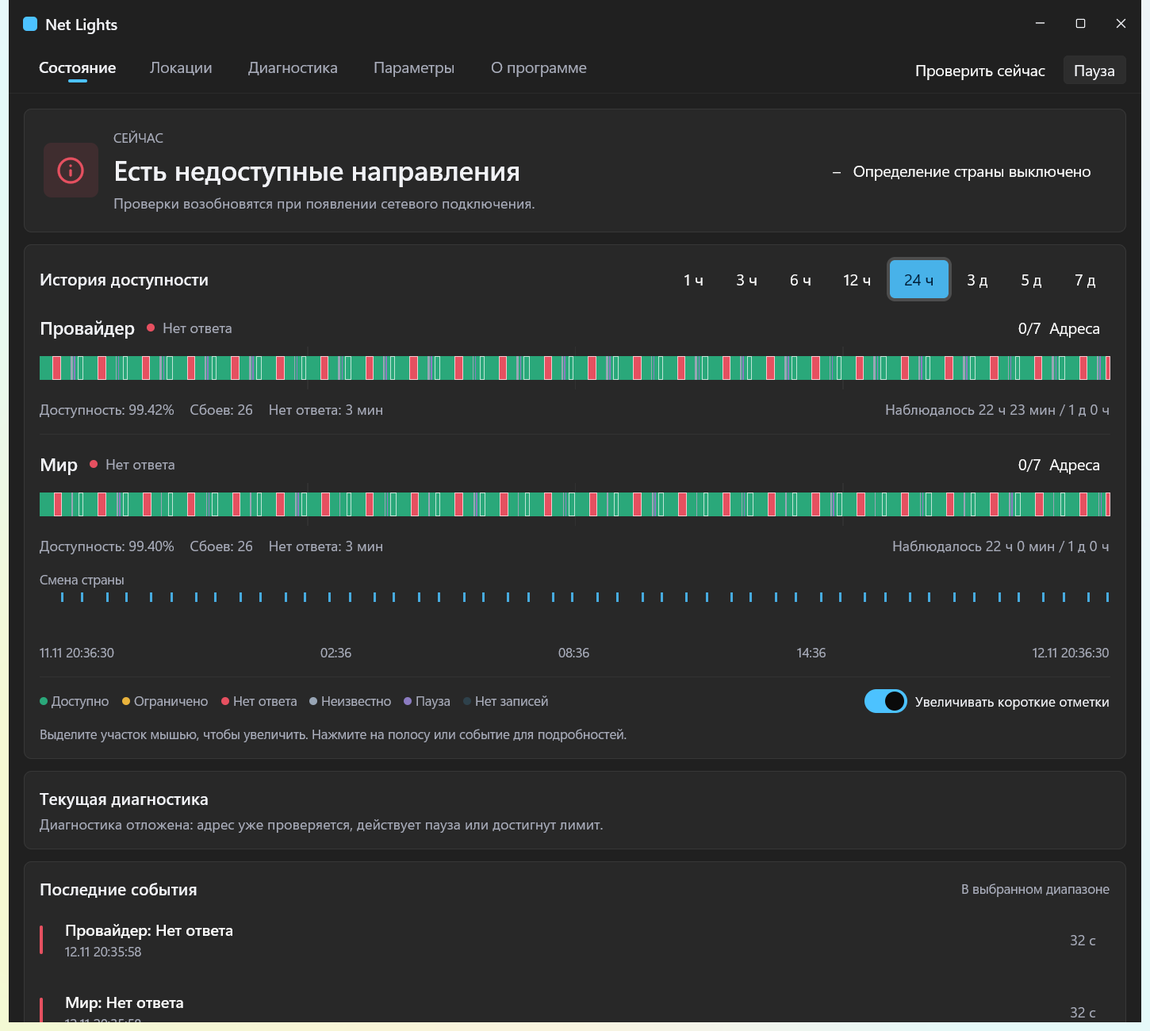
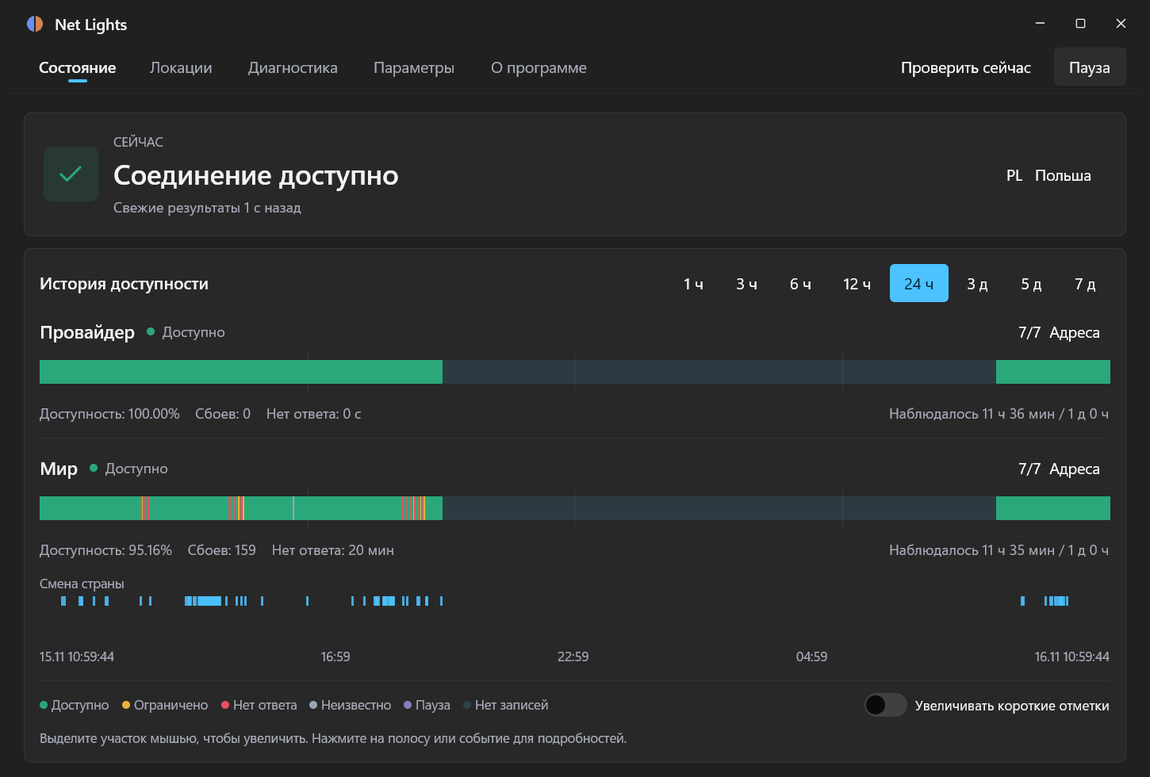
docs: refresh README screenshots and restore tray previews

diff --git a/docs/images/tray-mock.html b/docs/images/tray-mock.html
@@ -1,0 +1,83 @@
+<!DOCTYPE html>
+<html lang="ru">
+<head>
+  <meta charset="utf-8" />
+  <title>Net Lights: превью трея</title>
+  <style>
+    html, body { margin: 0; width: 243px; height: 62px; overflow: hidden; }
+    #shot {
+      width: 243px;
+      height: 62px;
+      position: relative;
+      background: linear-gradient(180deg, #76a2be 0%, #284866 100%);
+    }
+    .bar {
+      position: absolute;
+      left: 0; right: 0; bottom: 0;
+      height: 48px;
+      display: flex;
+      align-items: center;
+      background: #202020;
+      box-shadow: inset 0 1px 0 rgba(255, 255, 255, 0.08);
+      font-family: "Segoe UI Variable Text", "Segoe UI", sans-serif;
+      color: #fff;
+    }
+    .hit {
+      width: 32px;
+      height: 48px;
+      display: flex;
+      align-items: center;
+      justify-content: center;
+      flex: 0 0 32px;
+    }
+    .mi {
+      font-family: "Segoe Fluent Icons", "Segoe MDL2 Assets", sans-serif;
+      font-size: 16px;
+      line-height: 1;
+      color: #ececec;
+    }
+    .clock {
+      margin-left: auto;
+      padding: 0 8px 0 6px;
+      text-align: right;
+      line-height: 1.15;
+      font-size: 12px;
+      font-weight: 400;
+    }
+    .peek {
+      width: 5px;
+      align-self: stretch;
+      border-left: 1px solid rgba(255, 255, 255, 0.14);
+    }
+    .app { width: 16px; height: 16px; display: block; }
+    .country {
+      font-family: Consolas, monospace;
+      font-size: 16px;
+      font-weight: 700;
+      line-height: 1;
+    }
+  </style>
+</head>
+<body>
+  <div id="shot">
+    <div class="bar">
+      <div class="hit"><span class="mi">&#xE70E;</span></div>
+      <div class="hit">
+        <svg class="app" xmlns="http://www.w3.org/2000/svg" viewBox="0 0 16 16" role="img" aria-label="Провайдер и мир доступны">
+          <defs>
+            <clipPath id="left"><rect width="7" height="16" /></clipPath>
+            <clipPath id="right"><rect x="9" width="7" height="16" /></clipPath>
+          </defs>
+          <circle cx="8" cy="8" r="7" fill="#00DC5C" clip-path="url(#left)" />
+          <circle cx="8" cy="8" r="7" fill="#00DC5C" clip-path="url(#right)" />
+        </svg>
+      </div>
+      <div class="hit"><span class="country" aria-label="Финляндия">FI</span></div>
+      <div class="hit"><span class="mi">&#xE839;</span></div>
+      <div class="hit"><span class="mi">&#xE767;</span></div>
+      <div class="clock">15:00<br />23.09.2026</div>
+      <div class="peek"></div>
+    </div>
+  </div>
+</body>
+</html>

diff --git a/README.md b/README.md
@@ -1,117 +1,103 @@
 <p align="center">
-  <img src="docs/images/mark.png" width="96" height="96" alt="Net Lights" />
+  <img src="native/assets/brand.svg" width="112" height="112" alt="Логотип Net Lights" />
 </p>
 
 <h1 align="center">Net Lights</h1>
 
 <p align="center">
-  Мониторинг доступности контрольных адресов в трее Windows 11.<br />
+  <strong>Доступность сети и история страны вашего IP – в трее Windows.</strong><br />
   Круг из двух половин: слева провайдер, справа мир.
 </p>
 
 <p align="center">
-  <a href="https://github.com/AryaPaw/net-lights/releases"><img src="https://img.shields.io/github/v/release/AryaPaw/net-lights?label=release&sort=semver" alt="Release" /></a>
-  <a href="https://github.com/AryaPaw/net-lights/actions/workflows/ci.yml"><img src="https://img.shields.io/github/actions/workflow/status/AryaPaw/net-lights/ci.yml?branch=main" alt="CI" /></a>
-  <img src="https://img.shields.io/badge/Windows-11%20x64-0078D4?logo=windows&logoColor=white" alt="Windows 11 x64" />
-  <img src="https://img.shields.io/badge/Rust-GPUI%20Kit-CE422B?logo=rust&logoColor=white" alt="Rust и GPUI Kit" />
-  <img src="https://img.shields.io/badge/license-GPL--3.0--only-blue" alt="GPL-3.0-only" />
+  <a href="https://github.com/AryaPaw/net-lights/releases"><img src="https://img.shields.io/github/v/release/AryaPaw/net-lights?label=версия&amp;sort=semver" alt="Последняя версия" /></a>
+  <img src="https://img.shields.io/badge/Windows-11%20x64-0078D4" alt="Windows 11 x64" />
+  <a href="https://github.com/AryaPaw/net-lights/actions/workflows/ci.yml"><img src="https://img.shields.io/github/actions/workflow/status/AryaPaw/net-lights/ci.yml?branch=main&amp;label=CI" alt="Проверки main" /></a>
+  <a href="LICENSE"><img src="https://img.shields.io/badge/лицензия-GPL--3.0-blue" alt="GPL-3.0-only" /></a>
 </p>
 
 <p align="center">
-  <a href="#как-пользуются">Как пользоваться</a>
-  &nbsp;|&nbsp;
-  <a href="#установка">Установка</a>
-  &nbsp;|&nbsp;
-  <a href="#сборка">Сборка</a>
+  <a href="https://github.com/AryaPaw/net-lights/releases/download/v1.7.0/NetLights-Setup-win-x64-1.7.0.exe"><strong>Скачать для Windows</strong></a>
+  &nbsp;|&nbsp; <a href="#возможности">Возможности</a>
+  &nbsp;|&nbsp; <a href="#установка">Установка</a>
+  &nbsp;|&nbsp; <a href="docs/DEVELOPMENT.md">Разработчикам</a>
 </p>
 
-Версия 1.7.0 использует Rust и GPUI Kit. Старые установки автоматически переходят на неё через исправляющий выпуск 1.6.1; настройки и история сохраняются. Для новой установки скачайте 1.7.0 на странице Releases.
+## Главное – в трее
 
-Net Lights проверяет заданные контрольные адреса по HTTPS HEAD. Это показывает доступность этих адресов, а не всего интернета. Программа не меняет системные DNS, маршруты или сертификаты. Цвет каждой половины свой:
-
-- **зелёный** — доступно (не меньше двух независимых подтверждений)
-- **жёлтый** — ограничено (только одно подтверждение)
-- **красный** — нет ответа
-- **серый** — нет свежих данных
-- **синий** — пауза в меню значка, обе половины
-
-## Окно
-
-Один щелчок по значку открывает окно. Кнопка закрытия прячет его обратно в трей; чтобы завершить работу, выберите «Выход» в меню значка.
-
-Нативный интерфейс использует пять верхних вкладок: «Состояние», «Локации», «Диагностика», «Параметры» и «О программе». Оформление следует Fluent Design: компактные вкладки с голубым индикатором, единые размеры кнопок, системная типографика и собственный заголовок окна. В параметрах можно выбрать светлую, тёмную или системную тему. На широком окне слева доступны переходы к группам настроек; на узком остаётся одна прокручиваемая колонка.
-
-На странице состояния текущая сводка отделена от истории. Два ряда провайдера и мира используют общую временную ось и подсказку; отметки смены страны помогают сопоставлять события по времени. По умолчанию ширина статусов соответствует их длительности; увеличение коротких отметок включается вручную. Выделение мышью временно увеличивает участок, кнопка «Весь период» возвращает выбранный период. Охват наблюдений показан отдельно от процента доступности. Раскрытие адресов и диагностика относятся к текущему состоянию; карточки исторических событий не подменяют его сегодняшними HTTP-ответами и задержками.
-
-В разделе «Приложение» доступен выбор языка: «Как в системе», «Русский» или `English`. По умолчанию используется язык интерфейса Windows; для неподдерживаемого языка – английский. Выбор применяется сразу, включая подсказки и меню трея, и сохраняется после перезапуска. Язык не меняет записанную историю.
-
-На вкладке «О программе» находятся версия с кнопкой копирования, ссылки на исходный код и выпуски, папка данных и лицензии компонентов. Значок страны в трее сохраняет пропорции букв; размер можно выбрать в параметрах.
+Не нужно держать окно открытым: состояние двух групп контрольных адресов видно на одном кружке. Левая половина – **провайдер**, правая – **мир**. Их цвета меняются независимо, поэтому сразу видно, в каком направлении появились проблемы.
 
 <p align="center">
-  <img src="docs/images/window.png" alt="Окно Net Lights: история доступности и результаты проверок" width="900" />
+  <a href="docs/images/tray.png"><img src="docs/images/tray.png" width="470" alt="Превью трея Net Lights: зелёный круг из двух половин, код страны FI и системные индикаторы" /></a>
 </p>
 
-## Локации
+<p align="center"><em>Иллюстрация: обе группы доступны, страна публичного IP – Финляндия (FI).</em></p>
 
-На вкладке «Локации» показаны история страны внешнего IP и частота её смен за выбранный период: 1, 3, 6, 12 или 24 часа, 3, 5 или 7 дней. При нормальной связи основной онлайн-источник `country.is` опрашивается каждые 10 секунд; после ошибок повторы реже. Если от него нет пригодного ответа, используется резервный `ipwho.is`. Базы V2Fly и IPLocate работают локально только для сравнения и не подменяют основной результат.
+### Цвет каждой половины
 
-Точное время смены страны между проверками неизвестно. Чтобы посмотреть отдельные диагностические результаты источников, раскройте раздел «Debug: источники определения» под графиками; по умолчанию он свёрнут.
+| Цвет | Что означает |
+| --- | --- |
+| <img src="docs/images/tray-status-online.svg" width="20" height="20" alt="Зелёный" /> **Зелёный** | Доступно: не меньше двух независимых подтверждений. |
+| <img src="docs/images/tray-status-limited.svg" width="20" height="20" alt="Жёлтый" /> **Жёлтый** | Ограничено: только одно независимое подтверждение. |
+| <img src="docs/images/tray-status-offline.svg" width="20" height="20" alt="Красный" /> **Красный** | Нет ответа от контрольных адресов. |
+| <img src="docs/images/tray-status-unknown.svg" width="20" height="20" alt="Серый" /> **Серый** | Недостаточно свежих данных для определения состояния. |
+| <img src="docs/images/tray-status-paused.svg" width="20" height="20" alt="Голубой" /> **Голубой** | Пауза: проверки приостановлены, обе половины голубые. |
+
+Показ страны включается отдельно в параметрах. Он помогает заметить смену выхода VPN без открытия окна; подробная история доступна на вкладке «Локации». Нажатие на кружок открывает сводку и графики.
 
 <p align="center">
-  <img src="docs/images/locations.png" alt="Вкладка локаций: тестовая история страны и частота смен за 7 дней" width="900" />
+  <img src="docs/images/window.png" width="1000" alt="Состояние Net Lights: доступность провайдера и мира, реальные наблюдения за сутки и отметки смены страны" />
 </p>
 
-<p align="center"><em>Снимки запущенного приложения на Windows 11 с тестовой историей. IP в истории синтетические.</em></p>
+## Возможности
 
-## Как пользуются
+| | Что показывает Net Lights |
+| --- | --- |
+| **Два направления** | Отдельные группы контрольных адресов «Провайдер» и «Мир». Обе группы видны на одном значке в трее. |
+| **История доступности** | Общая временная ось, длительность сбоев, охват наблюдений и события с подробностями. Восемь периодов от часа до семи дней. |
+| **Смена страны** | Страна публичного IP, история наблюдений и график частоты смен. Можно сопоставить переключение VPN с проблемами доступности. |
+| **Диагностика** | Результаты проверок адресов, расширенная диагностика и экспорт. Счётчики трафика помогают разобраться с расходом самой программы. |
+| **Управление проверками** | Настраиваемые интервалы доступности и определения страны, свои контрольные адреса и пауза из трея. |
+| **Нативное окно** | Rust и GPUI Kit, светлая и тёмная темы, русский и английский языки. Тема и язык могут следовать настройкам Windows. |
 
-1. Скачайте установщик нужной версии со страницы [Releases](https://github.com/AryaPaw/net-lights/releases).
-2. Запустите его. Права администратора не нужны.
-3. Значок появляется в трее. По умолчанию программа запускается вместе с Windows; автозапуск можно выключить в «Параметрах».
+### История страны
 
-Если включено автообновление, программа получает установщик с GitHub и запускает его в фоне. Настройка «Автообновление» находится в «Параметрах».
+Полоса стран и график частоты используют один выбранный период. Пропуски наблюдений отличаются от интервалов без смен. Наведение показывает детали; отдельные результаты онлайн-сервиса и локальных баз доступны в свёрнутом разделе Debug.
 
-Переход на нативную версию выполняется через 1.6.1 с исправленным обновлятором. Адрес GitHub `releases/latest` закрепляется за 1.6.1 для старых клиентов. Версия 1.6.1 и нативные версии выбирают последний стабильный выпуск от 1.7.0 из ограниченного списка релизов; предварительные выпуски игнорируются. Скачивание новой версии вручную доступно на общей странице Releases.
+<p align="center">
+  <img src="docs/images/locations.png" width="1000" alt="Локации Net Lights: реальные смены страны, ночной перерыв в наблюдениях и график частоты за сутки" />
+</p>
+
+<p align="center"><em>Настоящие окна локальной сборки 1.7.0 на Windows 11. Использована копия реальной истории; IP-адреса не показаны. Изображения не перерисованы.</em></p>
 
 ## Установка
 
-Нужна **Windows 11 x64**. Отдельный .NET Runtime для нативной сборки не нужен, права администратора для установки не требуются. Файл: `NetLights-Setup-win-x64-*.exe`.
+Нужна **Windows 11 x64**. Права администратора и отдельный .NET Runtime не требуются.
 
-## Интервалы проверок и трафик
+1. [Скачайте установщик 1.7.0](https://github.com/AryaPaw/net-lights/releases/download/v1.7.0/NetLights-Setup-win-x64-1.7.0.exe) и запустите его.
+2. Нажмите на значок Net Lights в трее, чтобы открыть окно.
+3. При необходимости настройте адреса и частоту проверок. Определение страны включается отдельно в параметрах.
 
-В «Параметрах» в блоке «Проверки и трафик» можно выбрать интервал доступности от 2 секунд до 5 минут. По умолчанию – 5 секунд для каждой группы; сайты внутри группы проверяются по очереди. Выбор сохраняется и применяется без перезапуска. При сбоях, запуске и смене сети возможны дополнительные проверки для подтверждения состояния. Более редкий опрос снижает трафик, но увеличивает задержку обнаружения изменений.
+Закрытие окна оставляет мониторинг в трее. Для завершения выберите «Выход» в меню значка. Автозапуск и автообновление включены по умолчанию и отключаются в параметрах.
 
-«Время ожидания ответа» задаётся отдельно: 1, 2, 3, 4, 5, 8 или 10 секунд, по умолчанию – 2 секунды. Это общий срок одного HTTPS-запроса доступности, включая соединение и получение заголовков. Изменение применяется к следующим проверкам, не меняет частоту опроса и не пересчитывает сохранённую историю. Ручная расширенная диагностика использует собственный лимит.
+Установки 1.6.0 переходят на новый интерфейс автоматически через промежуточную 1.6.1, сохраняя настройки и историю. Для ручной установки используйте ссылку выше или [список выпусков](https://github.com/AryaPaw/net-lights/releases).
 
-Интервал определения страны настраивается отдельно: 10, 15, 30 или 60 секунд. На странице «Диагностика» в разделе «Debug: трафик приложения» показаны переданные и полученные TCP-данные с запуска, включая TLS. История счётчиков не хранится. Загрузки баз и установщиков учитываются отдельно; DNS, IP-заголовки и повторная передача TCP в счётчики не входят. После десятиминутного замера обычного расхода программа определяет порог предупреждения. Прогноза месячного расхода нет.
+## Как читать показания
 
-## Сборка
+На графике пауза обозначена фиолетовым; отсутствие записей имеет отдельный цвет. Цвета статусов в трее описаны в легенде выше.
 
-Нужны Rust 1.98.1 (MSVC), Visual Studio Build Tools с C++ и Windows SDK. Точная версия Rust и компоненты закреплены в `rust-toolchain.toml`. Интерфейс использует GPUI Kit 0.9.1, без WebView. Существующая реализация C# сохранена в `src/` как источник контрактов миграции.
+Проверки HTTPS показывают доступность выбранных адресов, а не всего интернета. Неизвестные интервалы не считаются временем успешной работы. Определение страны относится к публичному IP, а не к физическому местоположению; точное время перехода между опросами неизвестно.
 
-```ps1
-pwsh -File scripts/verify.ps1
-pwsh -File scripts/run-local.ps1 -NoStart
-```
+## Данные и приватность
 
-Для локальной проверки без GUI используйте `pwsh -NoProfile -File scripts/verify.ps1 -Preflight`. Он проверяет синтаксис PowerShell, самопроверки стенда, формат, строгий Clippy и тесты без окна, включая отдельный frameprobe. Не управляет курсором и не заменяет UI, покрытие или проверку установленного обновления.
+Настройки и обе истории находятся в `%LOCALAPPDATA%\NetLights`. История хранится на диске семь дней и сохраняется между запусками. Записи локаций могут содержать публичный IP; учитывайте это перед передачей файлов другим людям.
 
-Полный `scripts/verify.ps1` дополнительно проверяет готовые exe, функциональный UI и обязательный runtime coverage. Настоящий монитор запускается дважды в изолированном профиле: проверяются реальные сетевые пробы, сигнал готовности, сохранность настроек и обеих историй, штатный выход. Интерактивная часть выполняется на одноразовой hosted CI VM. Первый сбой останавливает проверку; результаты остаются в `TestResults`. Этот же вход используется в CI. Дополнительный `-Legacy` запускает прежние наборы .NET, которые отдельно не подтверждают качество Rust-сборки.
+Программа обращается к настроенным адресам, GitHub для обновлений и загрузки баз, а при включённом определении страны – к `country.is` и при необходимости резервному `ipwho.is`. Локальные базы V2Fly и IPLocate служат для сравнения в Debug. Net Lights не меняет системные DNS, маршруты и сертификаты.
 
-`scripts/run-local.ps1 -NoStart` собирает приложение и агент обновления в новой папке, штатно завершает только локальную копию и заменяет её файлы транзакционно. `-NoStart` отключает последующий запуск. Установленную копию в AppData этот скрипт не заменяет.
+## Разработка
 
-`pwsh -File scripts/verify.ps1 -NativeUI` проверяет запущенное окно через UI Automation на одноразовой GitHub-hosted Windows VM: пять страниц на русском и английском, восемь периодов, переключатели, селекторы, общую подсказку, выбор события, увеличение диапазона, раскрытие адресов, прокрутку и сохранение размера после перезапуска. Отдельно проверяются клавиатурная навигация вкладок, компоновка настроек на широком и узком окне, версия и копирование на странице «О программе». Результат относится к фактическому DPI сеанса. Для него нужен `uv`.
+Инструкции по сборке, единой команде проверки и генерации иконок находятся в [руководстве разработчика](docs/DEVELOPMENT.md). Описание изменений – в [выпусках](https://github.com/AryaPaw/net-lights/releases).
 
-Локальные интерактивные UI-прогоны через подключённую Windows Sandbox заблокированы до её запуска: RDP-клиент может синхронизировать курсор гостя с курсором пользователя. Проверка гостевой учётной записи этого не предотвращает. Прямые `SetCursorPos` и `SendInput` в таком режиме также запрещены в Python runner; повторного наведения при смещении курсора нет. Полный локальный gate, включая функциональный UI для покрытия, останавливается на этом ограничении и не получает `PASS`. Проверки установщика без перемещения мыши остаются отдельными сценариями.
+## Лицензия
 
-Для покадровой проверки вкладок в CI тест временно включает анимации в одноразовой VM. Исходное значение восстанавливается в `finally`, в том числе при ошибке. Проверяются промежуточные положения индикатора и быстрые повторные переключения, а не только конечные снимки.
-
-`pwsh -File scripts/verify.ps1 -ResourceRun` дополнительно запускает часовой ресурсный прогон с максимальной историей и двумя настоящими GeoIP-базами. Анализ исключает прогрев и проверяет устойчивый рост private bytes, GDI, USER и handles; короткие или неполные измерения не получают `PASS`. CPU и working set сохраняются для сравнения. Неудачная загрузка баз также не считается выполненным ресурсным прогоном.
-
-Настоящие установка, обновление, откат и восстановление обоих значков после перезапуска Проводника проверяются отдельно через `scripts/test-sandbox-update.ps1` в собственной Windows Sandbox. Скрипт отказывается использовать или закрывать чужую Sandbox. Результаты Sandbox, UI и ресурсного прогона нельзя подменять unit-тестами.
-
-Промежуточная C#-версия 1.6.1 подготавливается командой `pwsh -NoProfile -File scripts/prepare-bridge.ps1 -Verify -Publish -Installer -DownloadBaseline`. Она воспроизводит опубликованный исходный commit 1.6.0, применяет ограниченный патч из `compat/bridge-1.6.1.patch`, прогоняет прежние тесты и собирает установщик в новой папке `artifacts`. Здесь `-Publish` означает локальную упаковку exe; команда не создаёт коммит, тег или GitHub Release и не меняет установленную программу. `scripts/test-bridge-update.ps1` проверяет отдельную реальную цепочку 1.6.0 → 1.6.1 → 1.7.0, включая исходный агент 1.6.0, ошибки установки, отказ сигнала готовности, откат и сохранность данных.
-
-Настройки и обе истории совместимы с прежней реализацией и находятся в `%LOCALAPPDATA%\NetLights`. Истории хранятся семь дней; атомарная запись и `.bak` защищают последнюю полную копию. При нечитаемых основном и резервном файлах запись соответствующего хранилища блокируется, исходные файлы сохраняются. Ограниченный журнал жизненного цикла находится в подпапке `logs` и не содержит IP и секретов.
-
-[GPL-3.0](LICENSE)
+[GPL-3.0-only](LICENSE). Сведения о сторонних компонентах доступны в разделе «О программе». Интерфейс использует [GPUI Kit](https://github.com/longbridge/gpui-kit); адаптированные механизмы [Argus](https://github.com/Ray-lea/Argus) отмечены в исходниках.

diff --git a/docs/DEVELOPMENT.md b/docs/DEVELOPMENT.md
@@ -1,0 +1,53 @@
+# Разработка Net Lights
+
+Пользовательское описание и снимки интерфейса находятся в [README](../README.md). Здесь собраны команды сборки и проверки текущей нативной версии.
+
+## Подготовка
+
+Нужны Windows 11 x64, PowerShell 7.5+, Rust с MSVC, Visual Studio Build Tools с C++ и Windows SDK. Версия Rust и компоненты закреплены в [`rust-toolchain.toml`](../rust-toolchain.toml), зависимости – в [`Cargo.lock`](../Cargo.lock). Нативное приложение использует Rust и GPUI Kit без WebView; прежняя реализация C# сохранена в `src/` для совместимости и подготовки промежуточного обновления.
+
+## Сборка и локальный запуск
+
+Из корня репозитория:
+
+```powershell
+pwsh -File scripts/run-local.ps1
+```
+
+Скрипт собирает приложение и агент, штатно завершает только локальную копию, заменяет её файлы транзакционно и запускает `artifacts/publish/NetLights.exe`. Установленную копию в AppData он не заменяет. Для сборки без последующего запуска используйте `-NoStart`.
+
+Для быстрой итерации над интерфейсом используйте development-сборку с существующим каталогом артефактов:
+
+```powershell
+cargo build -p netlights-app --locked --target-dir artifacts/rust-target -j 4
+```
+
+Проверяйте оформление в отдельном профиле, не меняя рабочие настройки и историю. `--inspect-page state|locations|diagnostics|settings|about` вместе с `--profile-directory` и `--skip-automatic-updates` открывает собственное окно без активации. Завершайте этот экземпляр через `--exit-local` с тем же профилем. Это статический осмотр, а не проверка ввода или производительности Release.
+
+## Проверка
+
+Единый вход – [`scripts/verify.ps1`](../scripts/verify.ps1). Локальный предварительный прогон:
+
+```powershell
+pwsh -File scripts/verify.ps1 -Preflight
+```
+
+Он проверяет синтаксис PowerShell, самопроверки стенда, форматирование, строгий Clippy и тесты без GUI, включая frameprobe. Используются существующие `artifacts/rust-target` и `artifacts/frameprobe-target`.
+
+Полный прогон `pwsh -File scripts/verify.ps1` дополнительно проверяет готовые exe, функциональный интерфейс и runtime coverage. Интерактивные проверки выполняются на одноразовой hosted Windows VM. `-NativeUI` запускает отдельный визуальный сценарий; результат относится к фактическому DPI сеанса. Предварительный прогон не подтверждает UI, установку или отсутствие утечек.
+
+Подробности режимов и ограничений находятся в [процедуре проверки и выпуска](../.cursor/skills/net-lights-ship/SKILL.md), актуальные задания – в [GitHub Actions](../.github/workflows). Установка, переход 1.6.0 → 1.6.1 → 1.7.0 и длительное измерение ресурсов являются отдельными сценариями. Не запускайте интерактивный стенд на рабочем столе пользователя без соответствующего разрешения.
+
+## Логотип и снимки
+
+Единственный исходник логотипа – [`native/assets/brand.svg`](../native/assets/brand.svg): форма 02-C, палитра 04 «Равновесие». Генерация прозрачных PNG и ICO для приложения, установщика и документации:
+
+```powershell
+pwsh -File scripts/generate-brand-assets.ps1
+```
+
+Ключ `-Check` проверяет соответствие ресурсов SVG в том же окружении. Рендер выполняется в отдельном headless-профиле Microsoft Edge без управления курсором. README использует SVG напрямую.
+
+Снимки в `docs/images/window.png` и `docs/images/locations.png` получены из запущенной локальной сборки 1.7.0 на Windows 11. Это захват собственного окна через `PrintWindow` без активации, изменения пикселей и управления курсором. Использована отдельная копия настоящей истории; IP-адреса в кадр не попадают. Эти изображения показывают интерфейс, но не являются результатом полного тестового прогона.
+
+`docs/images/tray.png` – исходная иллюстрация трея из коммита `57646f0`, восстановленная без изменения пикселей. Она показывает зелёный круг и пример кода страны `FI`, а не текущее состояние компьютера. Макет [`docs/images/tray-mock.html`](images/tray-mock.html) сохранён и сделан самодостаточным: значки встроены, внешние `tray-nl.png` и `tray-fi.png` не нужны. Цвета пяти SVG в `docs/images/tray-status-*.svg` сверены с `color` в `native/app/src/tray.rs`. В README сохранены исходные пропорции иллюстрации; снимки окон остаются настоящими.
